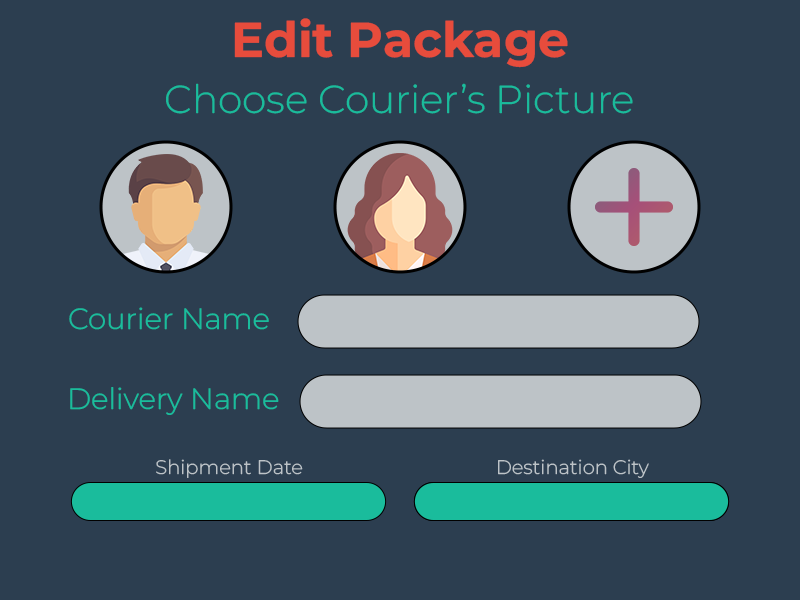
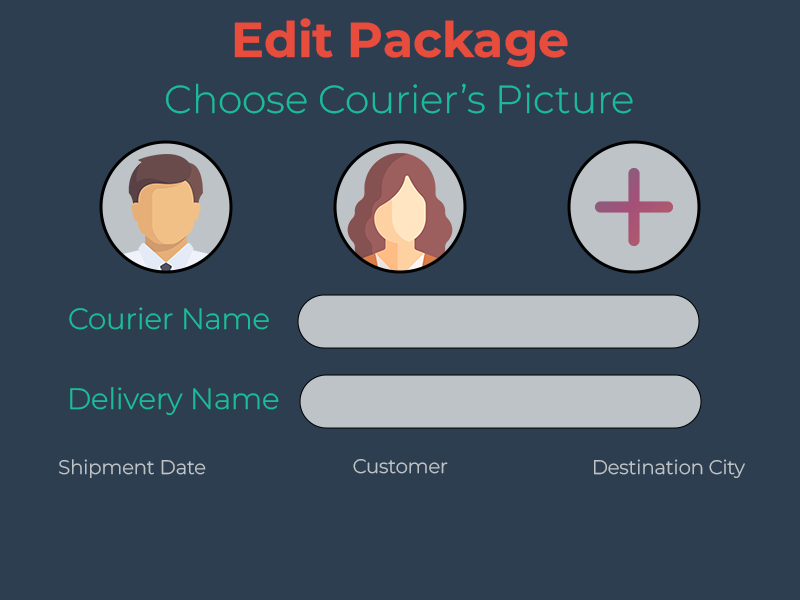
error messages & gui fix

Changed region(s): [[0.0625, 0.75, 0.9375, 0.87]]

diff --git a/src/main/java/org/geldikYoktunuz/ManagementMouseListener.java b/src/main/java/org/geldikYoktunuz/ManagementMouseListener.java
@@ -32,6 +32,7 @@ public class ManagementMouseListener implements MouseListener {
     private JComboBox<Customer> comboBox;
     private JComboBox<Cargo> comboBoxPackage;
     private JComboBox<City> comboBoxCity;
+    private JComboBox<Customer> comboBoxCustomer;
 
     private JTextField textFieldName;
     private JTextField textFieldSurname;
@@ -155,9 +156,21 @@ public class ManagementMouseListener implements MouseListener {
         labelAddUser.addMouseListener(new MouseListener() {
             @Override
             public void mouseClicked(MouseEvent e) {
-                Customer customer = new Customer(textFieldName.getText(), textFieldSurname.getText(), PPMouseListener.getPpPath());
-                System.out.println("Customer: " + customer);
-                dialogAddUser.dispose();
+                if (textFieldName.getText().isEmpty() || textFieldSurname.getText().isEmpty()) {
+                    JOptionPane.showMessageDialog(addUserLayer,
+                            "Error: Please ensure all fields are filled in:\n" +
+                                    "- Name\n" +
+                                    "- Surname",
+                            "Missing Information",
+                            JOptionPane.WARNING_MESSAGE);
+                }
+                else{
+                    Customer customer = new Customer(textFieldName.getText(), textFieldSurname.getText(), PPMouseListener.getPpPath());
+                    System.out.println("Customer: " + customer);
+                    dialogAddUser.dispose();
+                }
+
+
             }
 
             @Override
@@ -372,15 +385,30 @@ public class ManagementMouseListener implements MouseListener {
         labelAddPackage.addMouseListener(new MouseListener() {
             @Override
             public void mouseClicked(MouseEvent e) {
-                Cargo cargo = new Cargo(selectedDate, dontRing, textFieldCourierName.getText(), PPMouseListener.getPpPath(),textFieldDeliveryName.getText(), (City) comboBoxCity.getSelectedItem());
+                if (textFieldCourierName.getText().isEmpty() || textFieldDeliveryName.getText().isEmpty() || selectedDate == null || comboBoxCustomer.getSelectedItem() == null || comboBoxCity.getSelectedItem() == null) {
+                    JOptionPane.showMessageDialog(bgAddPackage,
+                            "Error: Please ensure all fields are filled in:\n" +
+                                    "- Courier Name\n" +
+                                    "- Delivery Name\n" +
+                                    "- Delivery Date\n" +
+                                    "- Customer Selection\n" +
+                                    "- City Selection",
+                            "Missing Information",
+                            JOptionPane.WARNING_MESSAGE);
 
-                Customer customer = new Customer("İb124124m", "Ç124in", "/dialogButtons/woman.png");
-                customer.addCargo(cargo);
+                }
+                else {
+                    Cargo cargo = new Cargo(selectedDate, dontRing, textFieldCourierName.getText(), PPMouseListener.getPpPath(),textFieldDeliveryName.getText(), (City) comboBoxCity.getSelectedItem());
+
+                    Customer customer = (Customer) comboBoxCustomer.getSelectedItem();
+
+                    customer.addCargo(cargo);
 
 
+                    System.out.println(cargo);
+                    dialogAddPackage.dispose();
 
-                System.out.println(cargo);
-                dialogAddPackage.dispose();
+                }
             }
 
             @Override
@@ -437,6 +465,7 @@ public class ManagementMouseListener implements MouseListener {
             textFieldCourierName.setText(currentCargo.getCourierName());
             textFieldDeliveryName.setText(currentCargo.getCargoName());
             comboBoxCity.setSelectedItem(currentCargo.getCity());
+            comboBoxCustomer.setSelectedItem(currentCargo.getCustomer());
         }
 
         JLabel labelEditPackage = new JLabel();
@@ -450,12 +479,26 @@ public class ManagementMouseListener implements MouseListener {
         labelEditPackage.addMouseListener(new MouseListener() {
             @Override
             public void mouseClicked(MouseEvent e) {
-                currentCargo.setCourierName(textFieldCourierName.getText());
-                currentCargo.setCargoName(textFieldDeliveryName.getText());
-                currentCargo.setCity((City) comboBoxCity.getSelectedItem());
-                currentCargo.setCourierPhoto(PPMouseListener.getPpPath());
+                if (textFieldCourierName.getText().isEmpty() || textFieldDeliveryName.getText().isEmpty() && selectedDate == null || comboBoxCustomer.getSelectedItem() == null || comboBoxCity.getSelectedItem() == null) {
+                    JOptionPane.showMessageDialog(editEditPackage,
+                            "Error: Please ensure all fields are filled in:\n" +
+                                    "- Courier Name\n" +
+                                    "- Delivery Name\n" +
+                                    "- Delivery Date\n" +
+                                    "- Customer Selection\n" +
+                                    "- City Selection",
+                            "Missing Information",
+                            JOptionPane.WARNING_MESSAGE);
+                }
+                else {
+                    currentCargo.setCourierName(textFieldCourierName.getText());
+                    currentCargo.setCargoName(textFieldDeliveryName.getText());
+                    currentCargo.setCity((City) comboBoxCity.getSelectedItem());
+                    currentCargo.setCourierPhoto(PPMouseListener.getPpPath());
+                    currentCargo.setCustomer((Customer) comboBoxCustomer.getSelectedItem());
 
-                dialogEditPackage.dispose();
+                    dialogEditPackage.dispose();
+                }
             }
 
             @Override
@@ -671,7 +714,7 @@ public class ManagementMouseListener implements MouseListener {
         datePicker.setDateSelectionAble(new DateSelectionAble() {
             @Override
             public boolean isDateSelectedAble(LocalDate localDate) {
-                return !localDate.isBefore(LocalDate.now());
+                return !localDate.isBefore(CurrentDate.currentDate);
             }
         });
 
@@ -689,7 +732,7 @@ public class ManagementMouseListener implements MouseListener {
         });
 
         JFormattedTextField editor = new JFormattedTextField();
-        editor.setBounds(70, 482, 317, 39);
+        editor.setBounds(16, 482, 232, 39);
         editor.setBackground(new Color(0x2c3e50));
 
         editor.setBorder(new RoundedBorder(20, new Color(0x159a80), 2));
@@ -713,9 +756,20 @@ public class ManagementMouseListener implements MouseListener {
         UIManager.put("ComboBox.buttonArrowColor", Color.WHITE); // Set arrow color to black
         UIManager.put("ComboBox.buttonBackground", new Color(0x2c3e50)); // Optional: Background color new Color(0x323232)
 
+        comboBoxCustomer = new JComboBox<>();
+        comboBoxCustomer.setBounds(284, 482, 232, 39);
+        comboBoxCustomer.setBackground(new Color(0x2c3e50));
+
+        for (Customer customer : CustomerStorage.getAllCustomers()) {
+            comboBoxCustomer.addItem(customer);
+        }
+
+        comboBoxCustomer.setForeground(Color.WHITE);
+
+        comboBoxCustomer.setBorder(new RoundedBorder(20, new Color(0x159a80), 2));
 
         comboBoxCity = new JComboBox<>();
-        comboBoxCity.setBounds(413, 482, 317, 39);
+        comboBoxCity.setBounds(552, 482, 232, 39);
         comboBoxCity.setBackground(new Color(0x2c3e50));
 
         for (City city : CityStorage.getAllCities().values()) {
@@ -732,6 +786,7 @@ public class ManagementMouseListener implements MouseListener {
         layeredPane.add(labelDontRing, JLayeredPane.PALETTE_LAYER);
         layeredPane.add(editor, JLayeredPane.PALETTE_LAYER);
         layeredPane.add(comboBoxCity, JLayeredPane.PALETTE_LAYER);
+        layeredPane.add(comboBoxCustomer, JLayeredPane.PALETTE_LAYER);
     }
 
     public void chooseAccount() {

diff --git a/src/main/java/org/geldikYoktunuz/Main.java b/src/main/java/org/geldikYoktunuz/Main.java
@@ -20,6 +20,10 @@ public class Main {
         Cargo cargo4 = new Cargo( CurrentDate.currentDate, false, "Semih Bekdaş", "Photo","Cargo4",CityStorage.getCityById(45));
         Cargo cargo5 = new Cargo( CurrentDate.currentDate, true, "Mehmet Aydın", "Photo","Cargo5",CityStorage.getCityById(11));
         Cargo cargo6 = new Cargo( CurrentDate.currentDate, true, "Semih Bekdaş", "Photo","Cargo6",CityStorage.getCityById(64));
+        Cargo cargo7 = new Cargo( CurrentDate.currentDate, true, "Semih Bekdaş", "Photo","Cargo7",CityStorage.getCityById(64));
+        Cargo cargo8 = new Cargo( CurrentDate.currentDate, true, "Semih Bekdaş", "Photo","Cargo8",CityStorage.getCityById(64));
+        Cargo cargo9 = new Cargo( CurrentDate.currentDate, true, "Semih Bekdaş", "Photo","Cargo9",CityStorage.getCityById(64));
+        Cargo cargo10 = new Cargo( CurrentDate.currentDate, true, "Semih Bekdaş", "Photo","Cargo10",CityStorage.getCityById(64));
 
         customer1.addCargo(cargo1);
         customer2.addCargo(cargo2);
@@ -27,6 +31,11 @@ public class Main {
         customer3.addCargo(cargo4);
         customer1.addCargo(cargo5);
         customer4.addCargo(cargo6);
+        customer1.addCargo(cargo7);
+        customer1.addCargo(cargo8);
+        customer1.addCargo(cargo9);
+        customer1.addCargo(cargo10);
+
 
 
 //        cargo4.setCargoStatus(CargoStatus.DELIVERED);
